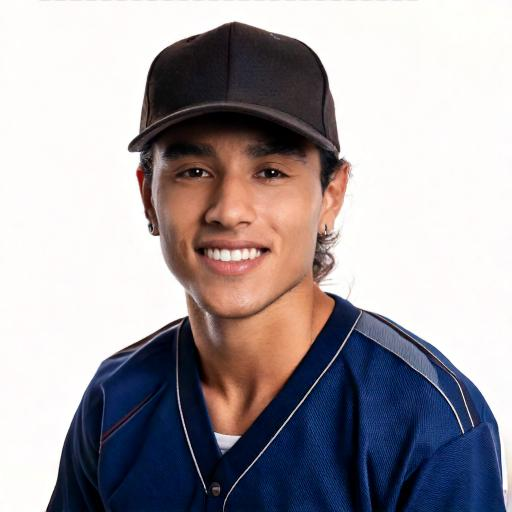
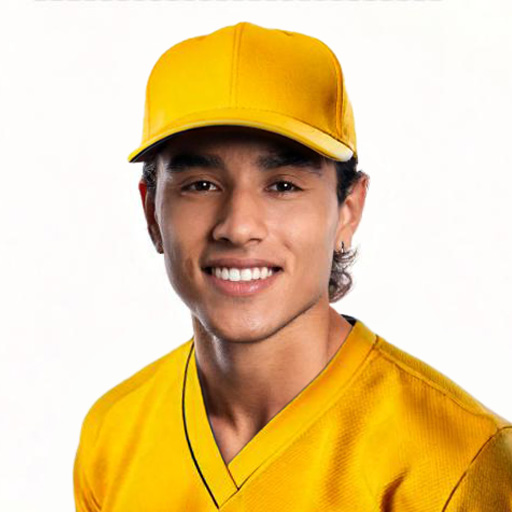
trey favors crop

diff --git a/players.js b/players.js
@@ -11,7 +11,7 @@ const players = [
         bioLink: 'http://bratinstitute.com'},
     { no: 6, name: "Tanner Swain", pos: "INF", year: "Sophomore", ht: "6'5\"", wt: "240 lbs", hometown: "Syracuse, N.Y.", school: "Cicero-North Syracuse HS", bt: "R/R", image: "images/6 Tanner Swain.png",
         bioLink: 'http://bratinstitute.com'},
-    { no: 7, name: "Trey Favors", pos: "INF", year: "Freshman", ht: "5'10\"", wt: "175 lbs", hometown: "San Diego, Calif.", school: "St. Augustine HS", bt: "L/R", image: "images/7 Trey Favors.png",
+    { no: 7, name: "Trey Favors", pos: "INF", year: "Freshman", ht: "5'10\"", wt: "175 lbs", hometown: "San Diego, Calif.", school: "St. Augustine HS", bt: "L/R", image: "images/7 Trey Favors.jpg",
         bioLink: 'http://bratinstitute.com'},
     { no: 8, name: "Tatsunori Schmidt", pos: "UT", year: "Freshman", ht: "6'1\"", wt: "200 lbs", hometown: "Lexington, Mass.", school: "Minuteman Regional HS", bt: "L/L", image: "images/8 Tatsunori Schmidt.png",
         bioLink: 'http://bratinstitute.com'},
